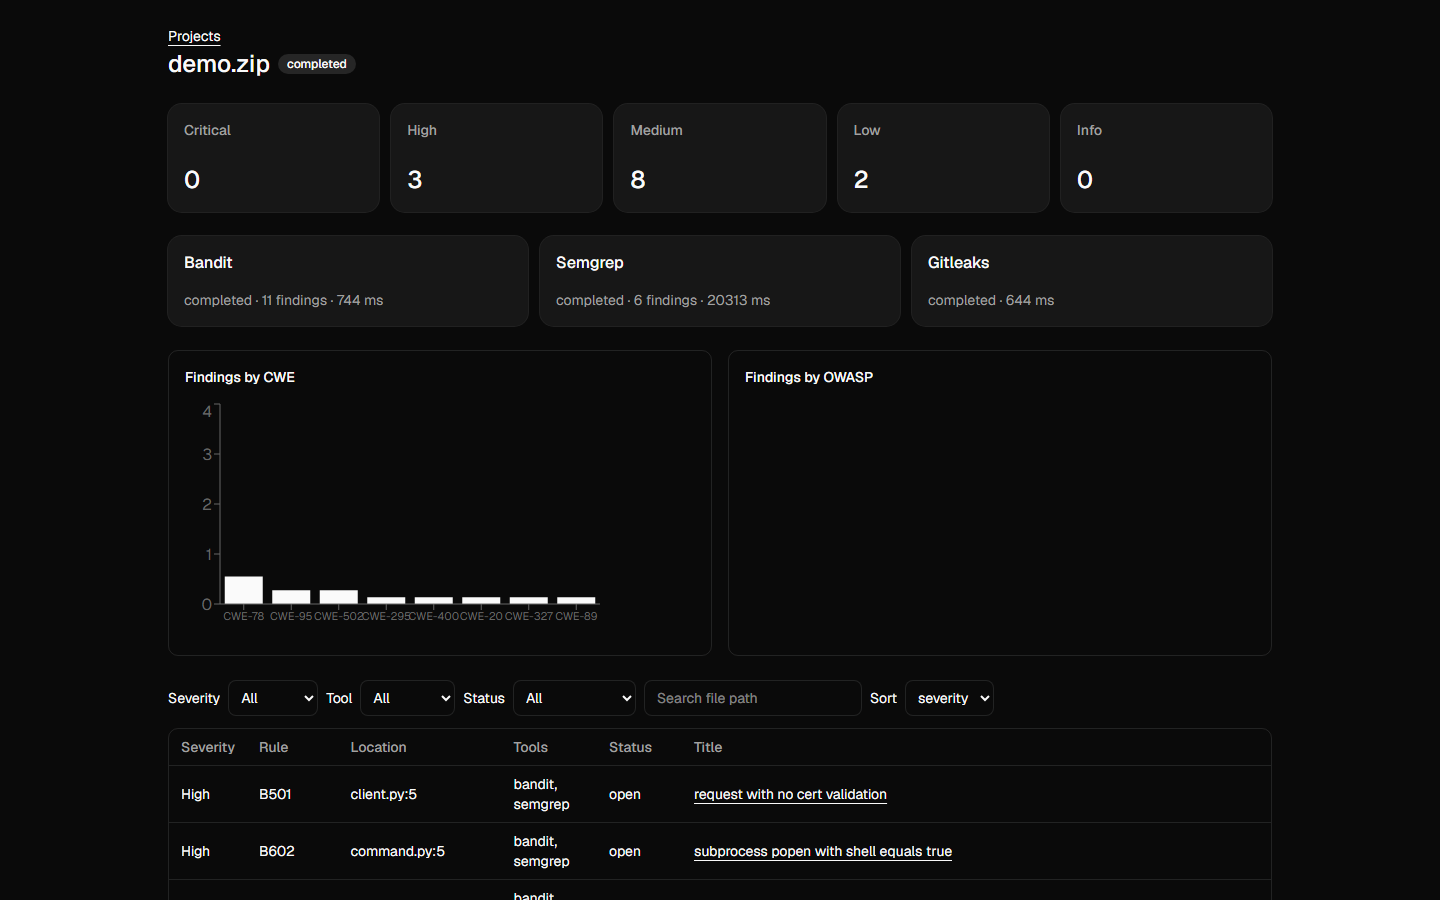
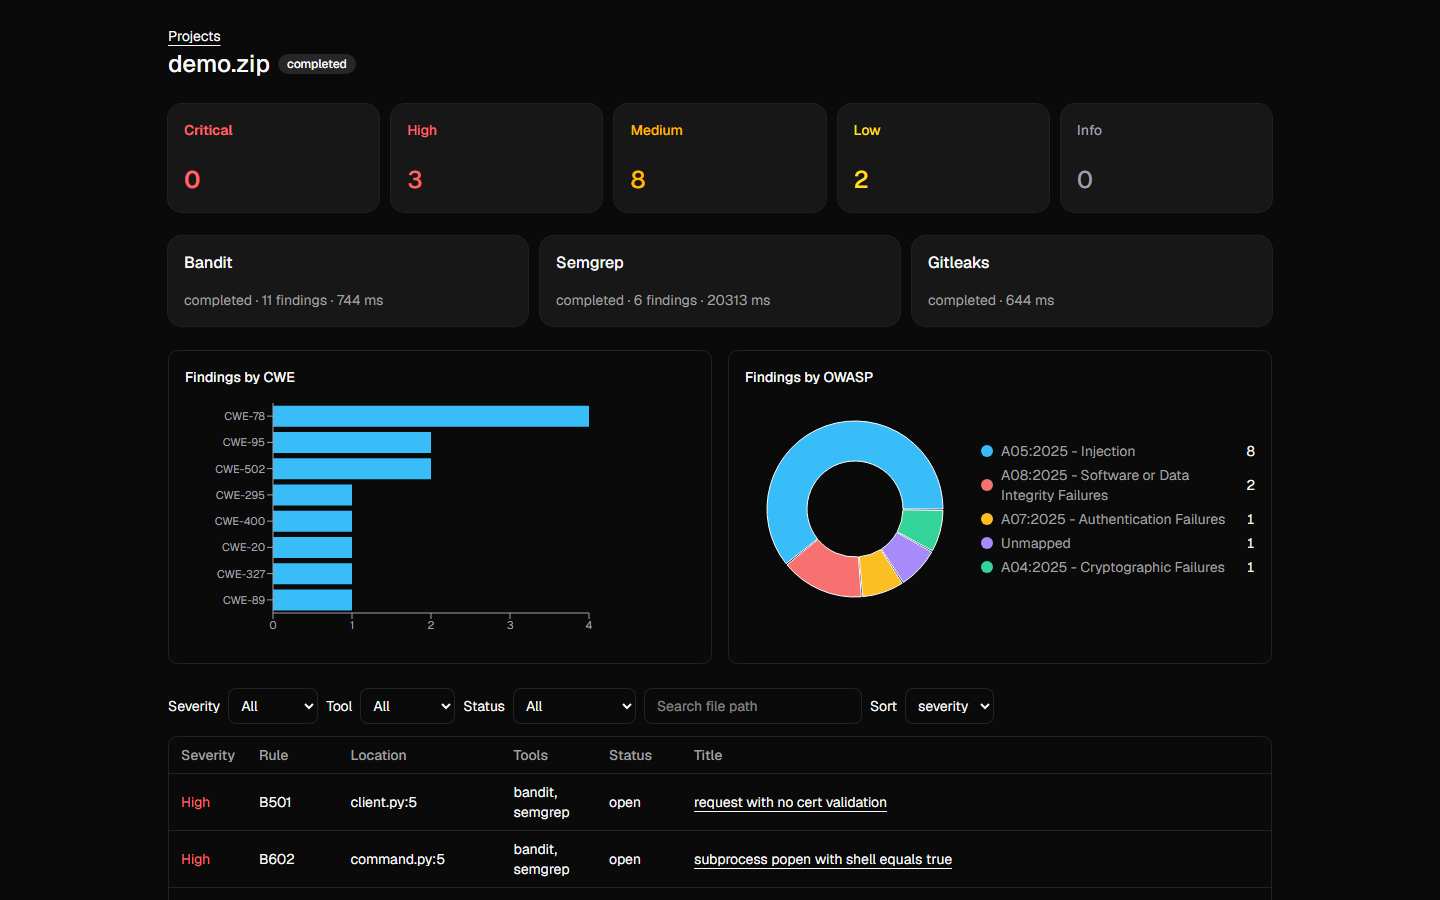
fix(frontend): render OWASP donut and make CWE bars and severities readable
The OWASP pie drew nothing on first paint: Recharts 3.x animates sectors
in from zero and the initial frame has no sector elements at all, so both
the screenshot and any non-waiting render saw an empty box. Disabling the
animation on the Pie and the Bar makes the first paint the final paint.

The CWE chart is now horizontal so the long CWE ids sit on the y axis
instead of colliding, and the bars have an explicit fill rather than
inheriting currentColor.

Severity now has one shared colour map: red for critical and high, amber
for medium, yellow for low, grey for info, applied to the severity cards,
the table column and the finding-detail badge.

charts.test.tsx asserts one pie segment per distinct OWASP category and
one bar per distinct CWE, so a blank chart fails a test.

diff --git a/frontend/src/components/scan/FindingsCharts.tsx b/frontend/src/components/scan/FindingsCharts.tsx
@@ -2,9 +2,17 @@ import { Bar, BarChart, Cell, Pie, PieChart, XAxis, YAxis } from "recharts"
 
 import type { Finding } from "@/types"
 
-const COLORS = ["#e11d48", "#f97316", "#eab308", "#22c55e", "#38bdf8", "#a78bfa"]
+const SLICE_COLORS = ["#38bdf8", "#f87171", "#fbbf24", "#a78bfa", "#34d399", "#fb923c", "#f472b6"]
+const BAR_COLOR = "#38bdf8"
+const AXIS_COLOR = "#a1a1aa"
 
-function counts(findings: Finding[], key: (finding: Finding) => string | null) {
+// Recharts animates a pie in from nothing and a bar up from zero height. In a
+// screenshot or a test the first paint is then empty, so both are static here.
+const ANIMATE = false
+
+type Slice = { name: string; value: number }
+
+function counts(findings: Finding[], key: (finding: Finding) => string | null): Slice[] {
   const totals = new Map<string, number>()
   for (const finding of findings) {
     const label = key(finding) ?? "Unmapped"
@@ -18,6 +26,9 @@ function counts(findings: Finding[], key: (finding: Finding) => string | null) {
 export function FindingsCharts({ findings }: { findings: Finding[] }) {
   const byCwe = counts(findings, (finding) => finding.cwe_id)
   const byOwasp = counts(findings, (finding) => finding.owasp_category)
+  // Horizontal bars: CWE ids are long enough to collide on a shared x axis.
+  const barHeight = Math.max(160, byCwe.length * 26 + 40)
+
   return (
     <div className="grid gap-4 lg:grid-cols-2">
       <section className="rounded-lg border border-border p-4">
@@ -25,25 +36,68 @@ export function FindingsCharts({ findings }: { findings: Finding[] }) {
         {byCwe.length === 0 ? (
           <p className="text-sm text-muted-foreground">No CWE labels.</p>
         ) : (
-          <BarChart width={420} height={240} data={byCwe}>
-            <XAxis dataKey="name" tick={{ fontSize: 11 }} interval={0} />
-            <YAxis allowDecimals={false} width={30} />
-            <Bar dataKey="value" fill="currentColor" />
+          <BarChart
+            layout="vertical"
+            width={420}
+            height={barHeight}
+            data={byCwe}
+            margin={{ top: 4, right: 16, bottom: 4, left: 0 }}
+          >
+            <XAxis
+              type="number"
+              allowDecimals={false}
+              tick={{ fill: AXIS_COLOR, fontSize: 11 }}
+              stroke={AXIS_COLOR}
+            />
+            <YAxis
+              type="category"
+              dataKey="name"
+              width={88}
+              tick={{ fill: AXIS_COLOR, fontSize: 11 }}
+              stroke={AXIS_COLOR}
+            />
+            <Bar dataKey="value" fill={BAR_COLOR} isAnimationActive={ANIMATE} />
           </BarChart>
         )}
       </section>
+
       <section className="rounded-lg border border-border p-4">
         <h2 className="mb-3 text-sm font-medium">Findings by OWASP</h2>
         {byOwasp.length === 0 ? (
           <p className="text-sm text-muted-foreground">No OWASP labels.</p>
         ) : (
-          <PieChart width={420} height={240}>
-            <Pie data={byOwasp} dataKey="value" nameKey="name" outerRadius={80}>
-              {byOwasp.map((entry, index) => (
-                <Cell key={entry.name} fill={COLORS[index % COLORS.length]} />
+          <div className="flex flex-wrap items-center gap-4">
+            <PieChart width={220} height={220}>
+              <Pie
+                data={byOwasp}
+                dataKey="value"
+                nameKey="name"
+                cx="50%"
+                cy="50%"
+                innerRadius={48}
+                outerRadius={88}
+                paddingAngle={1}
+                isAnimationActive={ANIMATE}
+              >
+                {byOwasp.map((slice, index) => (
+                  <Cell key={slice.name} fill={SLICE_COLORS[index % SLICE_COLORS.length]} />
+                ))}
+              </Pie>
+            </PieChart>
+            <ul className="flex min-w-40 flex-1 flex-col gap-1 text-sm">
+              {byOwasp.map((slice, index) => (
+                <li key={slice.name} className="flex items-center gap-2">
+                  <span
+                    aria-hidden="true"
+                    className="size-3 shrink-0 rounded-sm"
+                    style={{ backgroundColor: SLICE_COLORS[index % SLICE_COLORS.length] }}
+                  />
+                  <span className="text-muted-foreground">{slice.name}</span>
+                  <span className="ml-auto tabular-nums">{slice.value}</span>
+                </li>
               ))}
-            </Pie>
-          </PieChart>
+            </ul>
+          </div>
         )}
       </section>
     </div>

diff --git a/frontend/src/components/scan/charts.test.tsx b/frontend/src/components/scan/charts.test.tsx
@@ -1,0 +1,92 @@
+import { cleanup, render, screen } from "@testing-library/react"
+import { MemoryRouter } from "react-router-dom"
+import { afterEach, describe, expect, it } from "vitest"
+
+import { FindingsCharts } from "@/components/scan/FindingsCharts"
+import { FindingsTable } from "@/components/scan/FindingsTable"
+import { SeverityCards } from "@/components/scan/SeverityCards"
+import { severityText } from "@/lib/severity"
+import type { Finding } from "@/types"
+
+function finding(id: number, cweId: string | null, owasp: string | null): Finding {
+  return {
+    id,
+    scan_id: 1,
+    fingerprint: String(id).padStart(64, "0"),
+    source_tools: ["bandit"],
+    rule_id: "B307",
+    title: "eval",
+    description: "eval",
+    severity: "medium",
+    confidence: "high",
+    file_path: "calc.py",
+    line_start: 2,
+    line_end: 2,
+    code_snippet: "eval(x)",
+    snippet_start_line: 1,
+    cwe_id: cweId,
+    owasp_category: owasp,
+    status: "open",
+    status_reason: null,
+    created_at: "2026-09-30T00:00:00Z",
+  }
+}
+
+const FINDINGS = [
+  finding(1, "CWE-95", "A03:2025 - Injection"),
+  finding(2, "CWE-95", "A03:2025 - Injection"),
+  finding(3, "CWE-295", "A07:2025 - Authentication Failures"),
+  finding(4, "CWE-327", null),
+]
+
+describe("findings charts", () => {
+  afterEach(cleanup)
+
+  it("draws one pie segment per distinct OWASP category", () => {
+    const { container } = render(<FindingsCharts findings={FINDINGS} />)
+    const sectors = container.querySelectorAll(".recharts-pie-sector")
+    expect(sectors.length).toBe(3)
+  })
+
+  it("draws one bar per distinct CWE", () => {
+    const { container } = render(<FindingsCharts findings={FINDINGS} />)
+    const bars = container.querySelectorAll(".recharts-bar-rectangle")
+    expect(bars.length).toBe(3)
+  })
+
+  it("labels every pie slice with its category and count", () => {
+    render(<FindingsCharts findings={FINDINGS} />)
+    expect(screen.getByText("A03:2025 - Injection")).toBeInTheDocument()
+    expect(screen.getByText("A07:2025 - Authentication Failures")).toBeInTheDocument()
+    expect(screen.getByText("Unmapped")).toBeInTheDocument()
+  })
+})
+
+describe("severity colours", () => {
+  afterEach(cleanup)
+
+  it("gives each severity its own colour on the cards", () => {
+    render(<SeverityCards counts={{ critical: 1, high: 2, medium: 3, low: 4, info: 5 }} />)
+    expect(screen.getByText("critical").className).toContain("text-red-400")
+    expect(screen.getByText("high").className).toContain("text-red-400")
+    expect(screen.getByText("medium").className).toContain("text-amber-400")
+    expect(screen.getByText("low").className).toContain("text-yellow-300")
+    expect(screen.getByText("info").className).toContain("text-zinc-400")
+  })
+
+  it("colours the severity column in the table", () => {
+    const rows = [
+      { ...finding(1, "CWE-95", null), severity: "critical" },
+      { ...finding(2, "CWE-95", null), severity: "low" },
+    ]
+    render(
+      <MemoryRouter>
+        <FindingsTable findings={rows} />
+      </MemoryRouter>,
+    )
+    expect(screen.getByRole("cell", { name: "critical" }).className).toContain(
+      severityText("critical"),
+    )
+    expect(screen.getByRole("cell", { name: "low" }).className).toContain(severityText("low"))
+  })
+})

diff --git a/frontend/src/components/scan/FindingsTable.tsx b/frontend/src/components/scan/FindingsTable.tsx
@@ -1,15 +1,12 @@
 import { useMemo, useState } from "react"
 import { Link } from "react-router-dom"
 
+import { SEVERITIES, severityText } from "@/lib/severity"
 import type { Finding } from "@/types"
 
-const SEVERITY_RANK: Record<string, number> = {
-  critical: 0,
-  high: 1,
-  medium: 2,
-  low: 3,
-  info: 4,
-}
+const SEVERITY_RANK: Record<string, number> = Object.fromEntries(
+  SEVERITIES.map((severity, index) => [severity, index]),
+)
 
 export function FindingsTable({ findings }: { findings: Finding[] }) {
   const [severity, setSeverity] = useState("all")
@@ -39,7 +36,7 @@ export function FindingsTable({ findings }: { findings: Finding[] }) {
   return (
     <section className="space-y-3">
       <div className="flex flex-wrap gap-2">
-        <Select label="Severity" value={severity} onChange={setSeverity} options={["critical", "high", "medium", "low", "info"]} />
+        <Select label="Severity" value={severity} onChange={setSeverity} options={[...SEVERITIES]} />
         <Select label="Tool" value={tool} onChange={setTool} options={tools} />
         <Select label="Status" value={status} onChange={setStatus} options={statuses} />
         <input
@@ -68,7 +65,9 @@ export function FindingsTable({ findings }: { findings: Finding[] }) {
             <tbody>
               {shown.map((finding) => (
                 <tr key={finding.id} className="border-b border-border last:border-0">
-                  <td className="px-3 py-2 capitalize">{finding.severity}</td>
+                  <td className={`px-3 py-2 capitalize ${severityText(finding.severity)}`}>
+                    {finding.severity}
+                  </td>
                   <td className="px-3 py-2">{finding.rule_id}</td>
                   <td className="px-3 py-2">{finding.file_path}:{finding.line_start}</td>
                   <td className="px-3 py-2">{finding.source_tools.join(", ")}</td>

diff --git a/frontend/src/components/scan/SeverityCards.tsx b/frontend/src/components/scan/SeverityCards.tsx
@@ -1,6 +1,5 @@
 import { Card, CardContent, CardHeader, CardTitle } from "@/components/ui/card"
-
-const SEVERITIES = ["critical", "high", "medium", "low", "info"]
+import { SEVERITIES, severityText } from "@/lib/severity"
 
 export function SeverityCards({ counts }: { counts: Record<string, number> }) {
   return (
@@ -8,9 +7,13 @@ export function SeverityCards({ counts }: { counts: Record<string, number> }) {
       {SEVERITIES.map((severity) => (
         <Card key={severity}>
           <CardHeader className="pb-2">
-            <CardTitle className="text-sm capitalize text-muted-foreground">{severity}</CardTitle>
+            <CardTitle className={`text-sm capitalize ${severityText(severity)}`}>
+              {severity}
+            </CardTitle>
           </CardHeader>
-          <CardContent className="text-2xl font-medium">{counts[severity] ?? 0}</CardContent>
+          <CardContent className={`text-2xl font-medium ${severityText(severity)}`}>
+            {counts[severity] ?? 0}
+          </CardContent>
         </Card>
       ))}
     </div>

diff --git a/frontend/src/pages/FindingPage.tsx b/frontend/src/pages/FindingPage.tsx
@@ -10,6 +10,7 @@ import { useExplanation } from "@/components/finding/useExplanation"
 import { Badge } from "@/components/ui/badge"
 import { Card, CardContent, CardHeader, CardTitle } from "@/components/ui/card"
 import { Skeleton } from "@/components/ui/skeleton"
+import { severityBorder, severityText } from "@/lib/severity"
 
 export function FindingPage() {
   const { findingId } = useParams()
@@ -35,7 +36,12 @@ export function FindingPage() {
             </Link>
             <div className="flex flex-wrap items-center gap-2">
               <h1 className="text-2xl font-medium">{finding.data.title}</h1>
-              <Badge variant="outline" className="capitalize">
+              <Badge
+                variant="outline"
+                className={`capitalize ${severityText(finding.data.severity)} ${severityBorder(
+                  finding.data.severity,
+                )}`}
+              >
                 {finding.data.severity}
               </Badge>
               <Badge variant="secondary">{finding.data.rule_id}</Badge>

diff --git a/frontend/src/lib/severity.ts b/frontend/src/lib/severity.ts
@@ -1,0 +1,27 @@
+export const SEVERITIES = ["critical", "high", "medium", "low", "info"] as const
+
+// Red for critical and high, amber for medium, yellow for low, grey for info.
+// Chosen against the dark background, which is what the app ships with.
+const TEXT: Record<string, string> = {
+  critical: "text-red-400 font-semibold",
+  high: "text-red-400",
+  medium: "text-amber-400",
+  low: "text-yellow-300",
+  info: "text-zinc-400",
+}
+
+const BORDER: Record<string, string> = {
+  critical: "border-red-400/60",
+  high: "border-red-400/60",
+  medium: "border-amber-400/60",
+  low: "border-yellow-300/60",
+  info: "border-zinc-400/60",
+}
+
+export function severityText(severity: string): string {
+  return TEXT[severity] ?? TEXT.info
+}
+
+export function severityBorder(severity: string): string {
+  return BORDER[severity] ?? BORDER.info
+}
